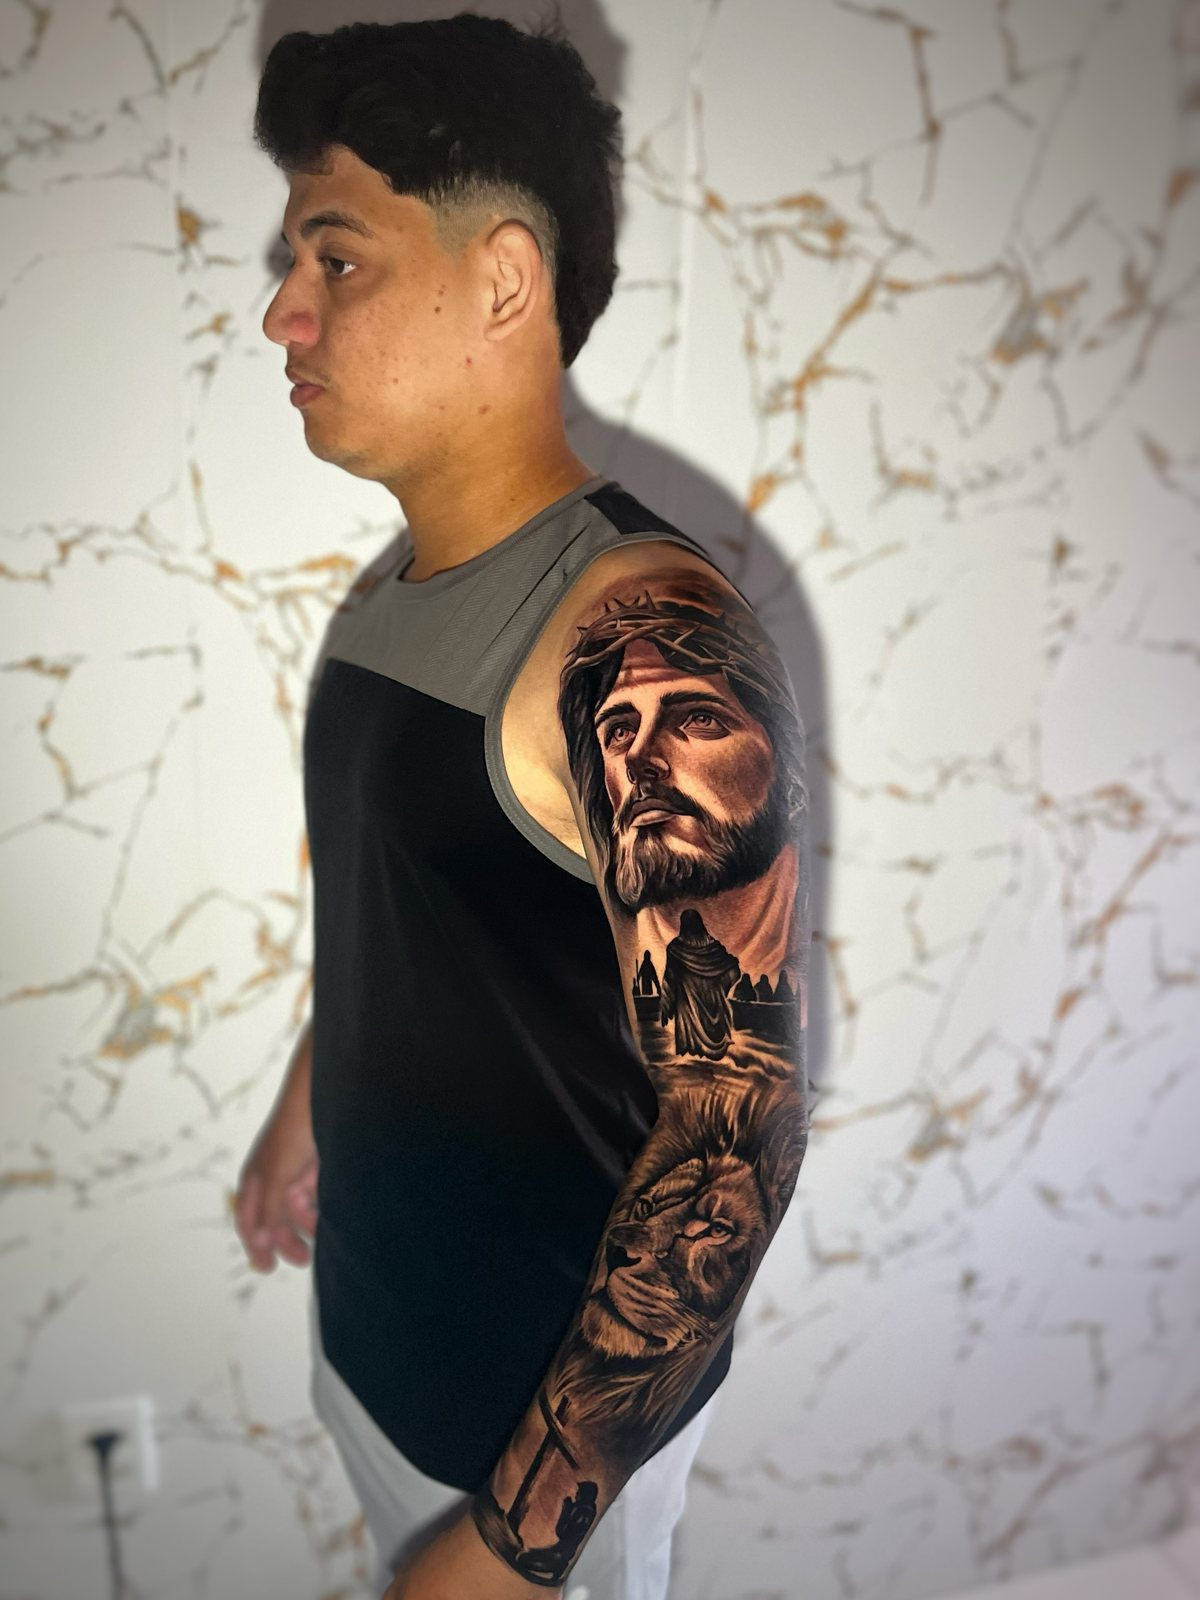
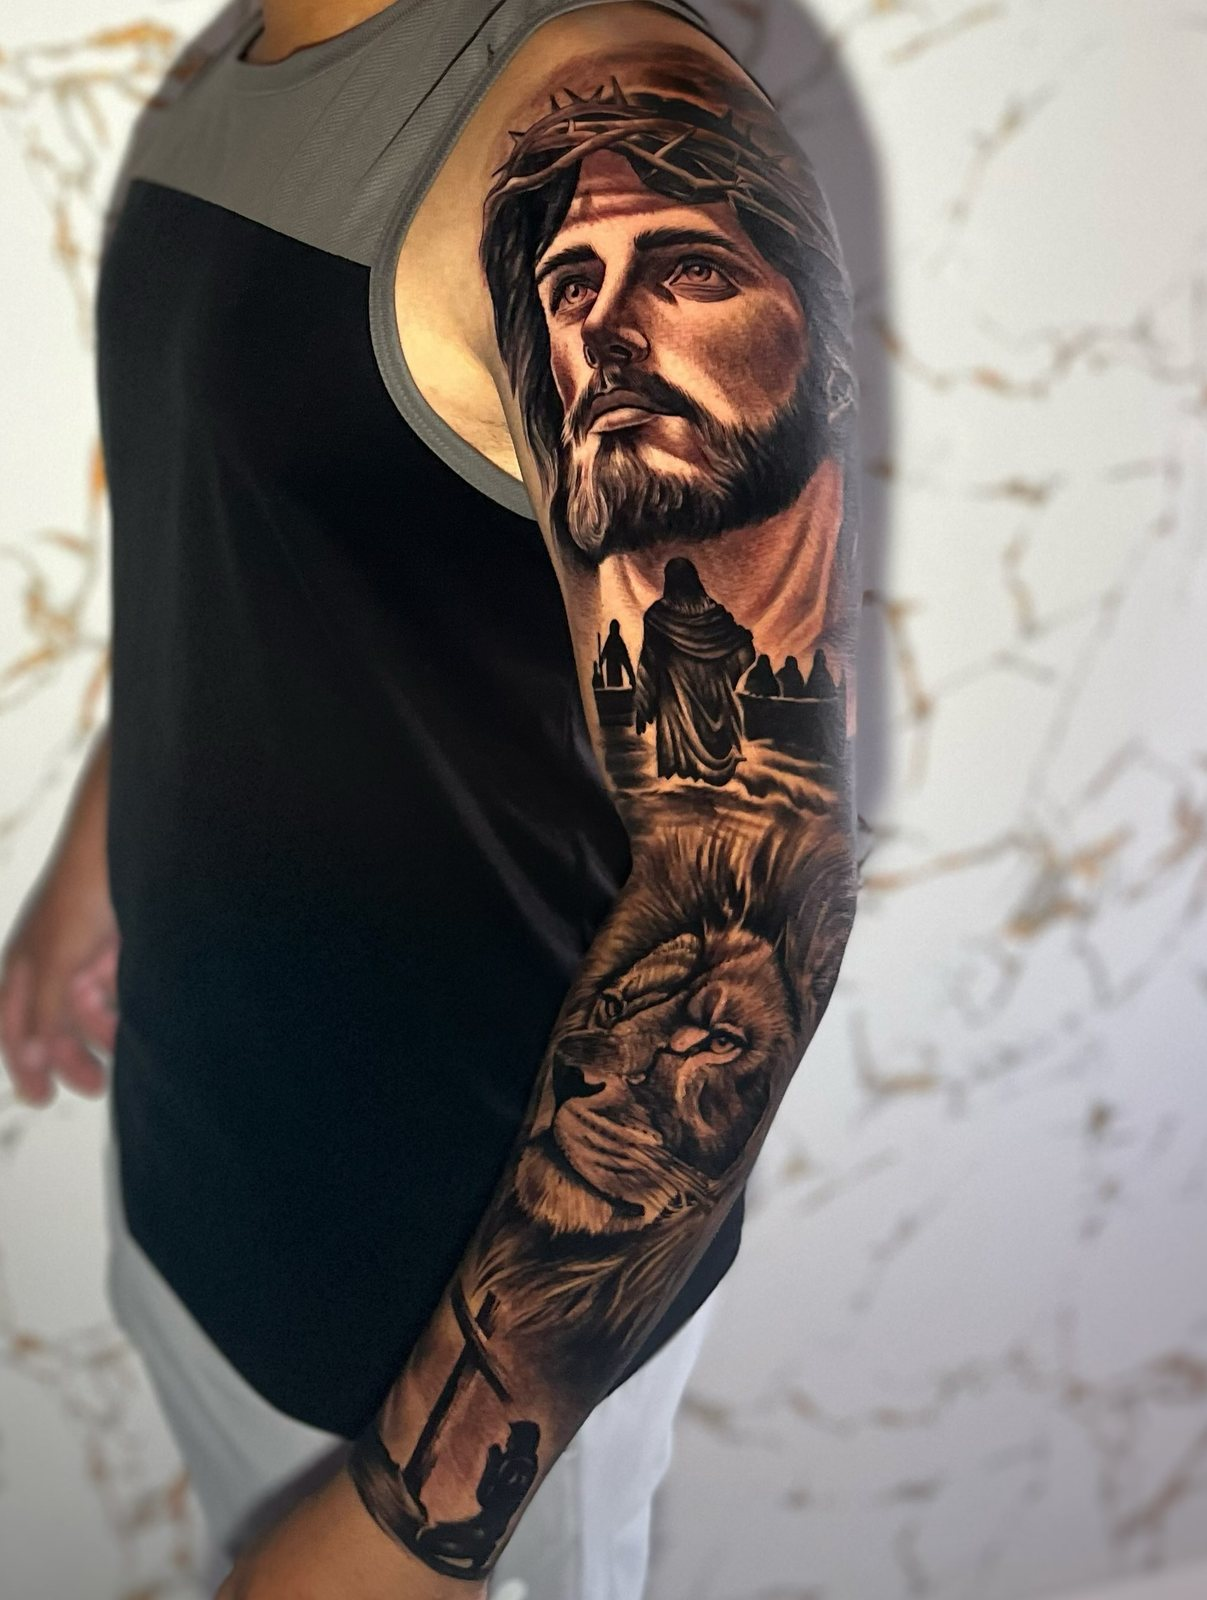
Recorta a foto do braço fechado para não mostrar o rosto do cliente

diff --git a/src/app/content/works.ts b/src/app/content/works.ts
@@ -105,14 +105,14 @@ export const WORKS: readonly Work[] = [
   },
   {
     id: 'jesus-fechamento',
-    title: 'Jesus',
+    title: 'Jesus e Leão de Judá',
     category: 'sacra',
     placement: 'Braço fechado',
     image: {
       src: 'images/jesus-fechamento.jpg',
-      width: 1200,
+      width: 1207,
       height: 1600,
-      alt: 'Braço fechado em realismo preto e cinza com rosto de Jesus olhando para o alto',
+      alt: 'Braço fechado em realismo preto e cinza: rosto de Jesus olhando para o alto, travessia e leão',
     },
   },
 ];
